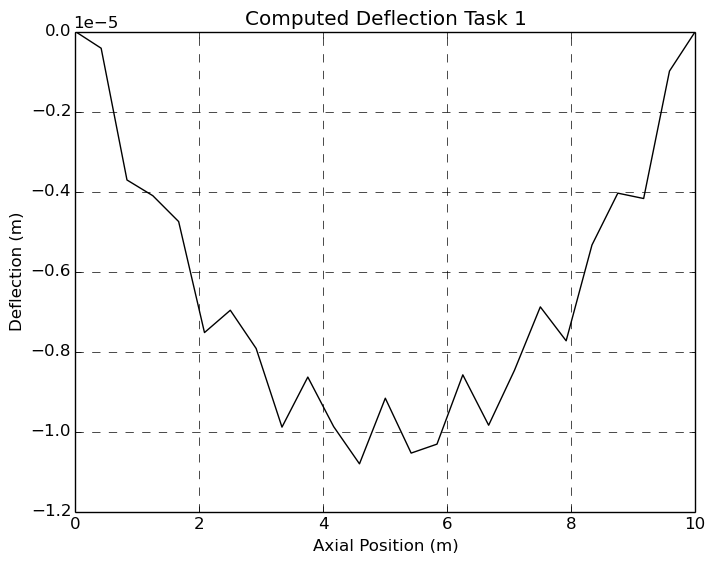
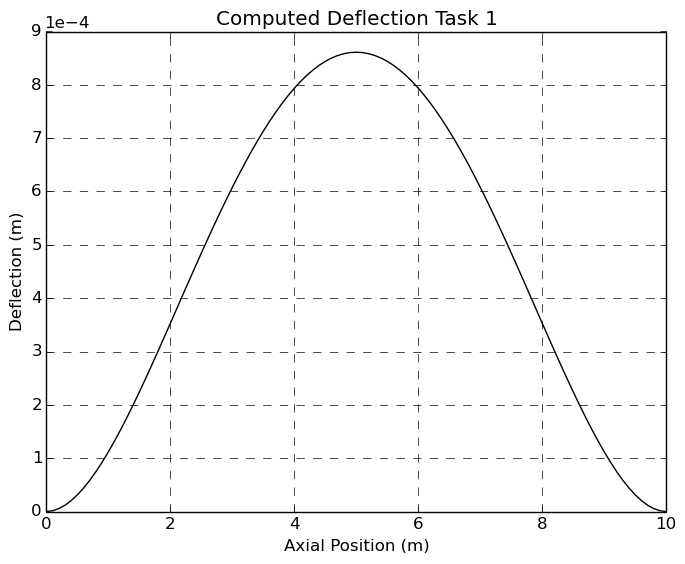
So banded storage works... lets move to q2

diff --git a/CW-ae3-422/src/BuildFunction.cpp b/CW-ae3-422/src/BuildFunction.cpp
@@ -34,20 +34,21 @@ void buildKglb(double *Kg, double *ke, int Nvar_, int Nx_g)
 }
 
 void buildKglbSparse(double *Kg, double *ke, int Nvar_, int Nx_g, int buf)
-{	// LHS Boundary
+{	const int jmp =  9 + buf;
+	// LHS Boundary
 	for (int i = 0; i < 3; ++i)
 	{	// Build Diagonals
 		int pnt = (i+3)*6 + (i+3);
-		int pnt2 = (4+buf)*Nvar_+(i);
-	 	Kg[pnt2] += ke[pnt];	
+		int pnt2 = (i*jmp) +4+buf;
+	 	Kg[pnt2] += ke[pnt];
 	 	if (i==1)
 	 	{	pnt = (i+3)*6 + (i+3+1);
-			pnt2 = (4+buf+1)*Nvar_+(i);
+			pnt2 = (i*jmp+4)+1+buf;
 		 	Kg[pnt2] += ke[pnt];	
 	 	}
 	 	if (i==2)
 	 	{	pnt = (i+3-1)*6 + (i+3);
-			pnt2 = (5+buf-i)*Nvar_+(i);
+			pnt2 = (i*jmp+4)-1+buf;
 		 	Kg[pnt2] += ke[pnt];	
 	 	}
 	}
@@ -58,7 +59,7 @@ void buildKglbSparse(double *Kg, double *ke, int Nvar_, int Nx_g, int buf)
 		for (int j = 0; j < 6; ++j)
 		{	// Build Diagonal
 			int pnt = j*6 + j;
-			int pnt2 = (4+buf)*Nvar_ + j + i*3;
+			int pnt2 = (j*jmp + 4+buf) + i*(jmp*3);
 		 	Kg[pnt2] += ke[pnt];
 		 	int max = 6-j;
 		 	int bnd = 5;
@@ -67,12 +68,12 @@ void buildKglbSparse(double *Kg, double *ke, int Nvar_, int Nx_g, int buf)
 		 	{	bnd = max;
 		 	}
 			for (int k = 1; k < bnd; ++k)
-			{	int pos = (4+buf+k)*Nvar_+j + i*3;
+			{	int pos = (j*jmp + 4+buf) + i*(jmp*3) + k;
 			 	Kg[pos] += ke[pnt+k];	
 			}
 		 	// Build Lower
 			for (int k = 1; k <= j; ++k)
-			{	int pos = (4+buf-k)*Nvar_+j + i*3;
+			{	int pos = (j*jmp + 4+buf) + i*(jmp*3) - k;
 				Kg[pos] += ke[pnt-k];
 			}
 		}
@@ -81,16 +82,16 @@ void buildKglbSparse(double *Kg, double *ke, int Nvar_, int Nx_g, int buf)
 	for (int i = Nvar_-3; i < Nvar_; ++i)
 	{	// Build Diagonals
 		int pnt = (i - (Nvar_-3))*6 + (i - (Nvar_-3));
-		int pnt2 = (4+buf)*Nvar_+(i);
+		int pnt2 = (i*jmp) +(4+buf);
 	 	Kg[pnt2] += ke[pnt];	
-	 	if (i==1)
-	 	{	pnt = (i)*6 + (i+1);
-			pnt2 = (4+buf+1)*Nvar_+(i+3);
+	 	if (i==Nvar_-2)
+	 	{	pnt += 1;
+			pnt2 += 1;
 		 	Kg[pnt2] += ke[pnt];	
 	 	}
-	 	if (i==2)
-	 	{	pnt = (i-1)*6 + (i);
-			pnt2 = (5+buf-i)*Nvar_+(i+3);
+	 	if (i==Nvar_-1)
+	 	{	pnt += -1;
+			pnt2 += -1;
 		 	Kg[pnt2] += ke[pnt];	
 	 	}
 	}
@@ -106,7 +107,7 @@ void buildFglb(double *Kg, double *ke, int Nx_g)
 }
 
 void buildKele(double *K, double lx_e, double A_, double E_, double I_)
-{	double EI(E_*I_), a(A_*E_/lx_e), b(12*EI/pow(lx_e, 2)), 
+{	double EI(E_*I_), a(A_*E_/lx_e), b(12*EI/pow(lx_e, 3)), 
 			c(6*EI/pow(lx_e, 2)), d(4*EI/lx_e), e(2*EI/lx_e);
 	int N = 6;
 	{ for (int i = 0; i < N; ++i)

diff --git a/CW-ae3-422/src/main.cpp b/CW-ae3-422/src/main.cpp
@@ -56,12 +56,9 @@ int main(int argc, char *argv[])
 	// ============== Create Elemental K Matrix ===============//
 	buildKele(K_e, lx_e, A_, E_, I_);
 	buildKglb(K_g, K_e, Nvar_, Nx_g);
-	// showMat(K_e, 6);
-	// showMat(K_g, Nvar_);
 	buildKglbSparse(K_gs, K_e, Nvar_, Nx_g, buf);
 	buildFele(F_e, lx_e, qx_, qy_);
 	buildFglb(F_g, F_e, Nx_g);
-	// showMat(K_gs, Nvar_, 9+buf);
 
 	// =================== Solve System =======================//
     const int nrhs = 1;
@@ -71,14 +68,10 @@ int main(int argc, char *argv[])
     int ku = 4;
     int ldab = 1 + 2*kl + ku;
     int ldb = Nvar_;
-	// F77NAME(dgesv)(Nvar_, nrhs, K_g, Nvar_, ipiv, F_g, Nvar_, info);
-	// writeVec(F_g, Nx_g, "output");
+
 	// showVec(F_g, Nvar_);
-	// cout << Nvar_ << endl;
 	F77NAME(dgbsv)(Nvar_, kl, ku, nrhs, K_gs, ldab, ipiv, F_g, ldb, info);
 	// showVec(F_g, Nvar_);
-	// writeVec(F_g, Nx_g, "output");
-	cout << info << endl;
-
+	writeVec(F_g, Nx_g, "output");
 	return 0;
 }

diff --git a/CW-ae3-422/src/InitFile.cpp b/CW-ae3-422/src/InitFile.cpp
@@ -117,5 +117,5 @@ void initVars(double *b_, double *h_, double *A_, double *I_, double *E_, int *N
 { *A_ = *b_ * *h_;                   // Cross-sectional Area Calculation
   *I_ = (*b_ * pow(*h_,3.))/12;      // Second Moments of area calculation
   *Nvar_ = (*Nx_g+1) * 3 - 6;          // Number of variables in global matrices excluding boundaries
-  *E_ = *E_ * 10E6;
+  *E_ = *E_;
 }

diff --git a/CW-ae3-422/src/Common.hpp b/CW-ae3-422/src/Common.hpp
@@ -6,9 +6,6 @@
 #include <fstream>
 #include <sstream>
 #include <iomanip>
-// #include <stdio.h>
-
-// #include <string.h>
 
 // Define LAPACK Shit ###########################################
 #define F77NAME(x) x##_
